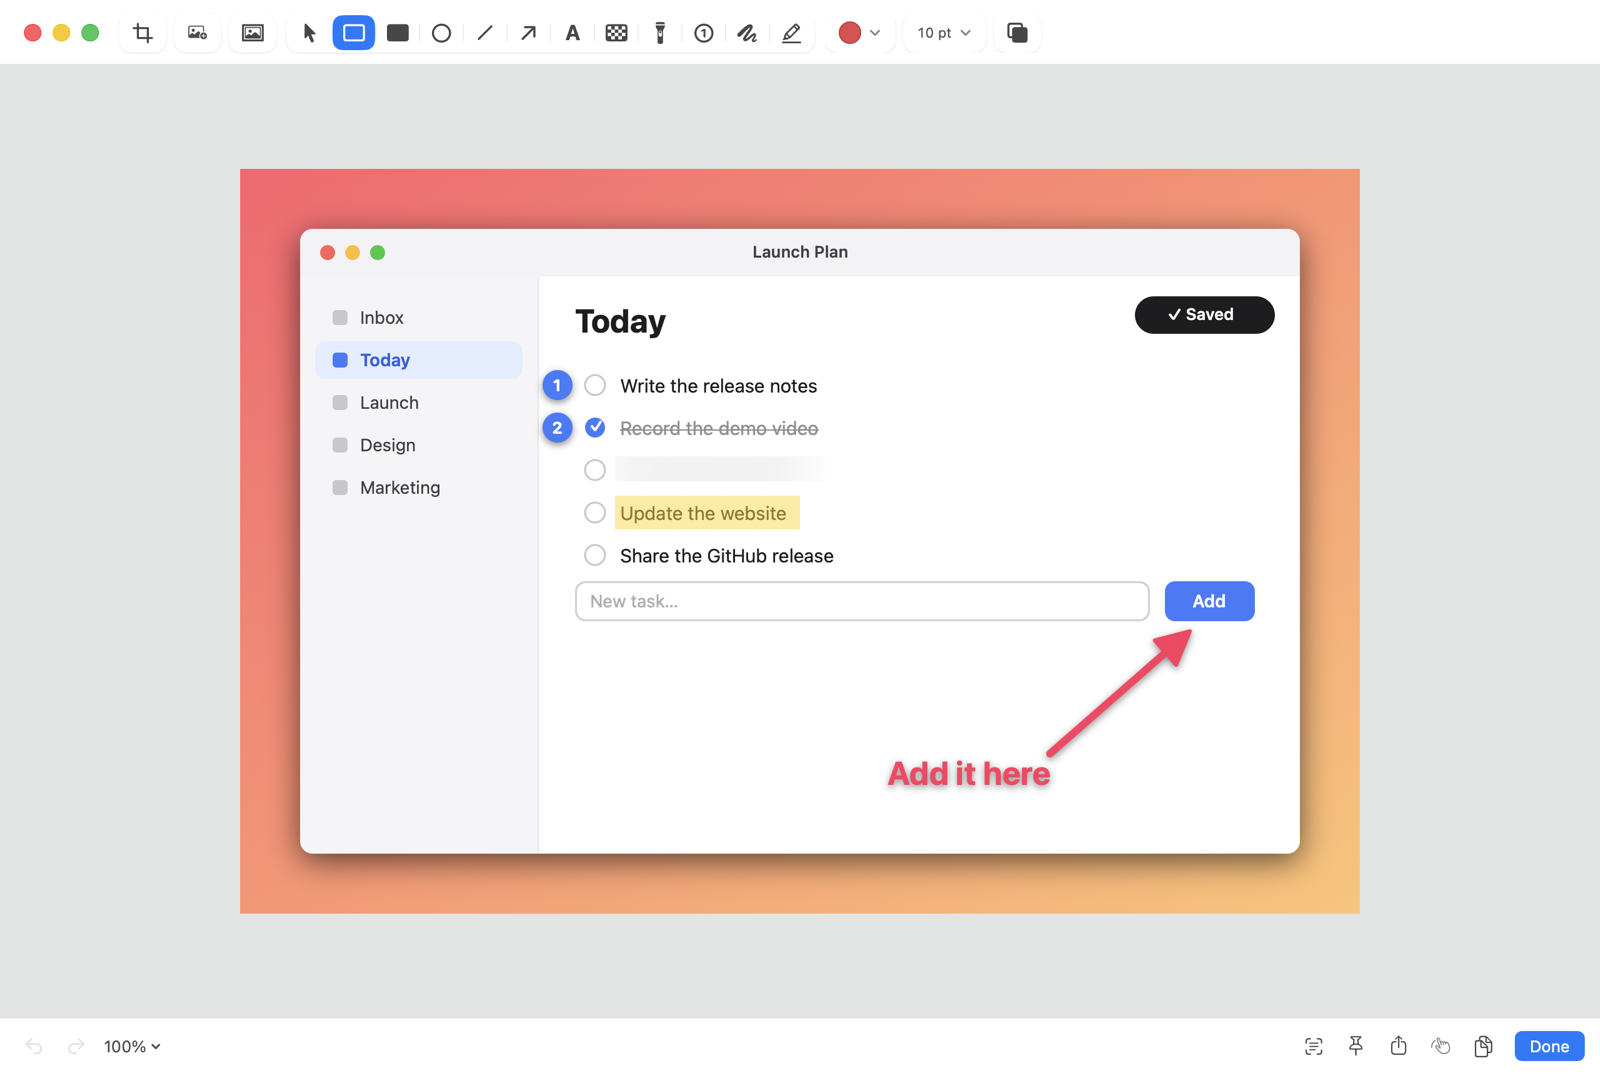
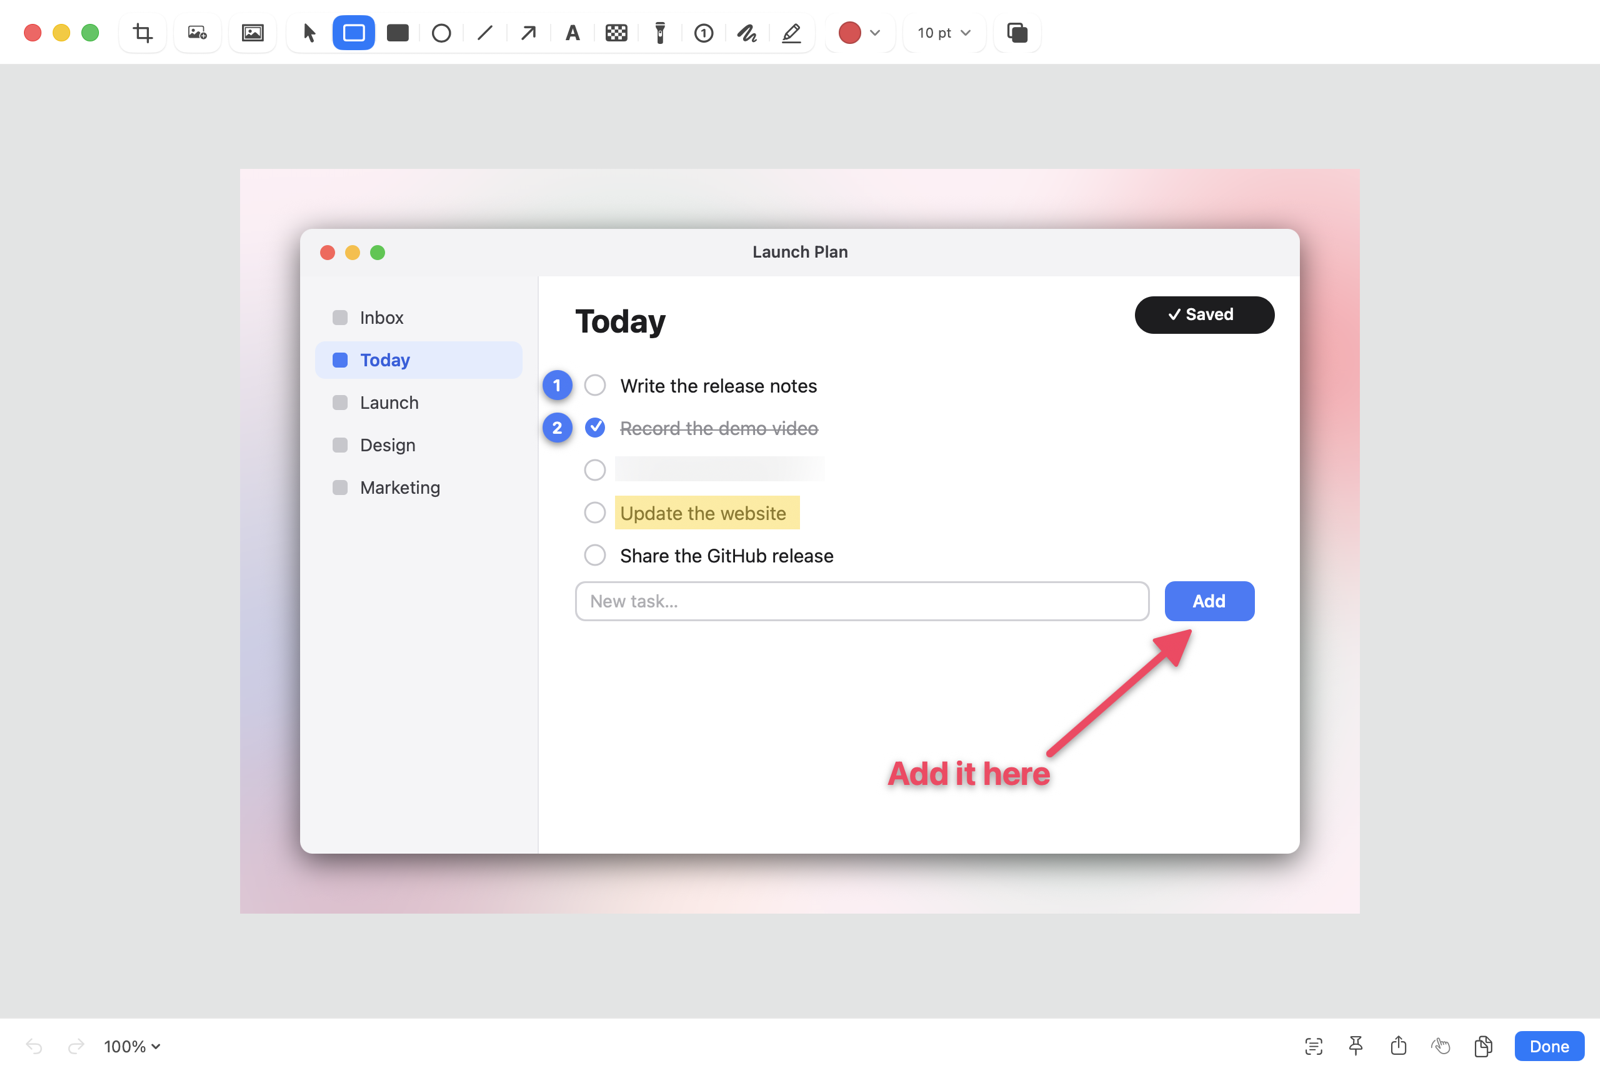
Auto Redact finds an ID or account number whose label sits apart on the same row (forms, bank apps), and no longer takes it for a phone number; README: demo GIF and editor shot on the iMac Purple desktop picture, screenshots on Candy, and an Auto Redact example (CCCD, STK, phone, email on a made-up 

Changed region(s): [[0.125, 0.1535, 0.875, 0.8595]]

diff --git a/Sources/Daisyshot/App/DebugDemo.swift b/Sources/Daisyshot/App/DebugDemo.swift
@@ -4,8 +4,9 @@ import AVFoundation
 
 /// README media: `CONFIG=debug ./scripts/build-app.sh`, then
 /// `open --env DAISYSHOT_DEMO=<dir> build/Daisyshot.app` (the bundle has Screen Recording access for the window shots).
-/// Writes `demo.gif` (a Studio export of a synthetic recording), `studio-editor.png` and `annotate.png`, then quits.
-/// The recording is drawn here — no real screen content — and backgrounds are Daisyshot's own gradients.
+/// Writes `demo.gif` (a Studio export of a synthetic recording), `studio-editor.png`, `annotate.png` and
+/// `auto-redact.png` (Auto Redact run on a drawn chat with made-up details), then quits. Everything shown is drawn
+/// here — no real screen content. Videos use the iMac Purple desktop picture, screenshots the Candy background.
 @MainActor
 enum DebugDemo {
     static let points = CGSize(width: 800, height: 500), scale: CGFloat = 2
@@ -25,6 +26,8 @@ enum DebugDemo {
                 print("DEMO editor")
                 try await annotateShot(to: out.appendingPathComponent("annotate.png"))
                 print("DEMO annotate")
+                try await redactShot(to: out.appendingPathComponent("auto-redact.png"))
+                print("DEMO auto redact")
                 try? FileManager.default.removeItem(at: out.appendingPathComponent("work"))
                 keep.forEach { Prefs.set($0.1, $0.0) }
                 print("DEMO done: \(out.path)")
@@ -75,8 +78,14 @@ enum DebugDemo {
         try StudioJSON.encode(ev)?.write(to: pkg.appendingPathComponent(StudioCaptureLayout.events))
 
         var doc = StudioDocument(clips: [.init(start: 0, duration: length)])
-        doc.background.kind = .gradient
-        doc.background.gradient = 0
+        let purple = MacWallpapers.systemFolder.appendingPathComponent("iMac Purple.heic")
+        if FileManager.default.fileExists(atPath: purple.path) {
+            doc.background.kind = .image
+            doc.background.imagePath = purple.path
+        } else {
+            doc.background.kind = .gradient
+            doc.background.gradient = 0
+        }
         doc.background.padding = 0.07
         doc.background.cornerRadius = 14
         doc.background.shadow = 0.6
@@ -188,7 +197,7 @@ enum DebugDemo {
         drawScene(ctx, size: px, t: length - 0.5)
         guard let img = ctx.makeImage() else { return }
         var state = DocState(image: img, scale: scale)
-        state.background.fill = .gradient(0)
+        state.background.fill = candy
         state.background.padding = 48
         func a(_ k: Annotation.Kind, _ p: [CGPoint], _ color: String, width: CGFloat = 5, font: CGFloat = 28) -> Annotation {
             Annotation(kind: k, points: p, color: color, lineWidth: width, shadow: true, fontSize: font)
@@ -205,12 +214,79 @@ enum DebugDemo {
         state.annotations = [a(.highlighter, [CGPoint(x: 252, y: 227), CGPoint(x: 400, y: 227)], "#FFD60A", width: 9), blur, one, two, arrow, note]
         AnnotateEditor.present(state, fileURL: nil, documentURL: nil)
         try await Task.sleep(for: .milliseconds(1500))
+        AnnotateEditor.editors.last?.selection = nil      // no selection outline in the shot
         guard let win = NSApp.windows.last(where: { $0.isVisible && $0.className.contains("Annotate") || $0.title.contains("Annotate") })
                 ?? NSApp.orderedWindows.first else { throw StudioError("No Annotate window.") }
         win.setFrame(CGRect(x: 60, y: 60, width: 1280, height: 860), display: true)
         try await Task.sleep(for: .milliseconds(800))
         try capture(win, to: dst)
         win.close()
+    }
+
+    /// Daisyshot's built-in Candy background for screenshots.
+    private static var candy: BackgroundSettings.Fill { .builtin(Backgrounds.wallpapers.firstIndex { $0.name == "Candy" } ?? 0) }
+
+    /// A chat with made-up contract details, then what Auto Redact finds in it — the real scanner, not drawn boxes.
+    private static func redactShot(to dst: URL) async throws {
+        let size = CGSize(width: 720, height: 470), px = CGSize(width: size.width * scale, height: size.height * scale)
+        guard let ctx = CGContext(data: nil, width: Int(px.width), height: Int(px.height), bitsPerComponent: 8, bytesPerRow: 0,
+                                  space: CGColorSpace(name: CGColorSpace.sRGB)!, bitmapInfo: CGImageAlphaInfo.premultipliedFirst.rawValue) else { return }
+        drawChat(ctx, size: size)
+        guard let img = ctx.makeImage() else { return }
+        let found = await SensitiveScanner.scan(img, size: size).filter { $0.kind != .face }
+        print("DEMO auto redact found: \(found.map(\.kind.rawValue))")
+        var state = DocState(image: img, scale: scale)
+        state.background.fill = candy
+        state.background.padding = 48
+        state.annotations = AutoRedact.annotations(found, style: .blackout)
+        AnnotateEditor.present(state, fileURL: nil, documentURL: nil)
+        try await Task.sleep(for: .milliseconds(1500))
+        AnnotateEditor.editors.last?.selection = nil      // no selection outline in the shot
+        guard let win = NSApp.orderedWindows.first(where: { $0.isVisible && $0.className.contains("Annotate") }) ?? NSApp.orderedWindows.first
+        else { throw StudioError("No Annotate window.") }
+        win.setFrame(CGRect(x: 60, y: 60, width: 1180, height: 860), display: true)
+        try await Task.sleep(for: .milliseconds(800))
+        try capture(win, to: dst)
+        win.close()
+    }
+
+    /// A messaging window: a colleague sends the details for a contract (all invented).
+    private static func drawChat(_ ctx: CGContext, size: CGSize) {
+        NSGraphicsContext.saveGraphicsState()
+        NSGraphicsContext.current = NSGraphicsContext(cgContext: ctx, flipped: true)
+        ctx.translateBy(x: 0, y: size.height * scale)
+        ctx.scaleBy(x: scale, y: -scale)
+        func fill(_ r: CGRect, _ hex: String, radius: CGFloat = 0) {
+            NSColor(hex: hex).setFill()
+            NSBezierPath(roundedRect: r, xRadius: radius, yRadius: radius).fill()
+        }
+        func text(_ s: String, _ p: CGPoint, size: CGFloat, weight: NSFont.Weight = .regular, color: String = "#1D1D1F") {
+            NSAttributedString(string: s, attributes: [.font: NSFont.systemFont(ofSize: size, weight: weight), .foregroundColor: NSColor(hex: color)]).draw(at: p)
+        }
+        fill(CGRect(origin: .zero, size: size), "#FFFFFF")
+        fill(CGRect(x: 0, y: 0, width: size.width, height: 52), "#F6F6F8")
+        fill(CGRect(x: 0, y: 52, width: size.width, height: 1), "#E5E5EA")
+        for (i, c) in ["#FF5F57", "#FEBC2E", "#28C840"].enumerated() { fill(CGRect(x: 16 + CGFloat(i) * 20, y: 20, width: 12, height: 12), c, radius: 6) }
+        fill(CGRect(x: 92, y: 10, width: 32, height: 32), "#7C9CFF", radius: 16)
+        text("L", CGPoint(x: 103, y: 15), size: 16, weight: .bold, color: "#FFFFFF")
+        text("Chị Lan · Kế toán", CGPoint(x: 134, y: 10), size: 14, weight: .semibold)
+        text("Đang hoạt động", CGPoint(x: 134, y: 28), size: 11, color: "#34C759")
+        // Their messages on the left, mine on the right.
+        fill(CGRect(x: 24, y: 72, width: 330, height: 36), "#F0F0F3", radius: 16)
+        text("Em gửi chị thông tin làm hợp đồng nhé!", CGPoint(x: 38, y: 81), size: 14)
+        fill(CGRect(x: 280, y: 124, width: 416, height: 208), "#E3ECFF", radius: 18)
+        let lines = [("Họ tên:", "Nguyễn Văn An"), ("Số CCCD:", "001203004567"), ("STK:", "1903 6655 8899 012"),
+                     ("Ngân hàng:", "Techcombank"), ("SĐT:", "0912 345 678"), ("Email:", "an.nguyen@congty.vn")]
+        for (i, (label, value)) in lines.enumerated() {
+            let y = 140 + CGFloat(i) * 30
+            text(label, CGPoint(x: 300, y: y), size: 15, weight: .semibold, color: "#2B5FE0")
+            text(value, CGPoint(x: 410, y: y), size: 15)
+        }
+        fill(CGRect(x: 24, y: 350, width: 250, height: 36), "#F0F0F3", radius: 16)
+        text("Ok em, chị nhận được rồi 👍", CGPoint(x: 38, y: 359), size: 14)
+        fill(CGRect(x: 20, y: size.height - 56, width: size.width - 40, height: 38), "#F6F6F8", radius: 19)
+        text("Nhập tin nhắn…", CGPoint(x: 38, y: size.height - 46), size: 14, color: "#AEAEB2")
+        NSGraphicsContext.restoreGraphicsState()
     }
 
     /// `screencapture -l` of one window, without its shadow.

diff --git a/Sources/Daisyshot/Annotate/SensitiveScanner.swift b/Sources/Daisyshot/Annotate/SensitiveScanner.swift
@@ -89,6 +89,25 @@ enum SensitiveScanner {
                 out.append(SensitiveFinding(kind: m.kind, rect: box.insetBy(dx: -padding, dy: -padding), text: String(line.text[r])))
             }
         }
+        // Forms and bank apps put the label and the value apart on one row ("Số CCCD:  001203004567"), which Vision reads
+        // as two lines: match the kinds that need their label across the row too. A number found that way is an ID or
+        // an account, not a phone number.
+        let labelled: Set<SensitiveKind> = [.nationalID, .account, .password]
+        for left in lines {
+            let row = lines.filter { r in
+                r.rect.minX >= left.rect.maxX - 2 && r.rect.minX - left.rect.maxX < max(left.rect.height, r.rect.height) * 8
+                    && min(left.rect.maxY, r.rect.maxY) - max(left.rect.minY, r.rect.minY) > min(left.rect.height, r.rect.height) * 0.5
+            }
+            guard let right = row.min(by: { $0.rect.minX < $1.rect.minX }) else { continue }
+            let joined = left.text + " " + right.text, offset = (left.text + " ").utf16.count
+            for m in matcher.matches(joined) where labelled.contains(m.kind) && m.range.location >= offset {
+                guard let r = Range(NSRange(location: m.range.location - offset, length: m.range.length), in: right.text),
+                      let box = right.box(r) else { continue }
+                let f = SensitiveFinding(kind: m.kind, rect: box.insetBy(dx: -padding, dy: -padding), text: String(right.text[r]))
+                out.removeAll { $0.kind == .phone && $0.rect.intersects(f.rect) }
+                if !out.contains(where: { $0.kind == f.kind && $0.rect.intersects(f.rect) }) { out.append(f) }
+            }
+        }
         return out
     }
 
@@ -454,6 +473,30 @@ extension SensitiveScanner {
                 if hit.rect.minX > truth.minX + 1 || hit.rect.maxX < truth.maxX - 1 || hit.rect.minX < truth.minX - left || hit.rect.maxX > truth.maxX + right {
                     fails.append("\(label): box for '\(secret)' is \(hit.rect.integral), glyphs at \(truth.integral)")
                 }
+            }
+        }
+        // Label and value apart on one row: still an ID and an account, boxed on the value, not taken for phones.
+        let rows = [("Số CCCD:", "001203004567", SensitiveKind.nationalID), ("STK:", "1903 6655 8899 012", .account)]
+        let size = CGSize(width: 700, height: 140)
+        if let ctx = AnnotateRenderer.bitmapContext(Int(size.width * 2), Int(size.height * 2)) {
+            ctx.scaleBy(x: 2, y: 2)
+            ctx.setFillColor(.white)
+            ctx.fill(CGRect(origin: .zero, size: size))
+            NSGraphicsContext.saveGraphicsState()
+            NSGraphicsContext.current = NSGraphicsContext(cgContext: ctx, flipped: false)
+            let attrs: [NSAttributedString.Key: Any] = [.font: NSFont.systemFont(ofSize: 22), .foregroundColor: NSColor.black]
+            for (i, row) in rows.enumerated() {
+                let y = size.height - 50 - CGFloat(i) * 54
+                NSAttributedString(string: row.0, attributes: attrs).draw(at: CGPoint(x: 20, y: y))
+                NSAttributedString(string: row.1, attributes: attrs).draw(at: CGPoint(x: 220, y: y))
+            }
+            NSGraphicsContext.restoreGraphicsState()
+            if let image = ctx.makeImage() {
+                let found = await scan(image, size: size)
+                for row in rows where !found.contains(where: { $0.kind == row.2 && $0.text.filter(\.isNumber) == row.1.filter(\.isNumber) && $0.rect.minX > 200 }) {
+                    fails.append("row layout: missed '\(row.1)' as \(row.2): \(found.map { "\($0.kind) \($0.text)" })")
+                }
+                if found.contains(where: { $0.kind == .phone }) { fails.append("row layout: an ID or account taken for a phone number") }
             }
         }
         return fails

diff --git a/README.md b/README.md
@@ -110,6 +110,10 @@ Interface languages: English, Tiếng Việt, 한국어, 日本語, 简体中文
 Daisyshot reads the text in a screenshot (and in a recording, for the Studio editor's masks) and covers what shouldn't be
 shared — only the value, so the label next to it stays readable. Everything runs on your Mac with Apple's Vision.
 
+![Auto Redact on a chat: the ID number (CCCD), bank account (STK), phone and email are blacked out; the name and bank stay readable](docs/images/auto-redact.png)
+
+<p align="center"><sub>Found and covered by Auto Redact, not by hand. Every detail in the picture is made up.</sub></p>
+
 | Finds | How |
 |---|---|
 | API keys and secrets | Known key formats (cloud providers, AI services, GitHub, Slack, JWTs, private keys…) and long random values after `key`, `token`, `secret`… |
